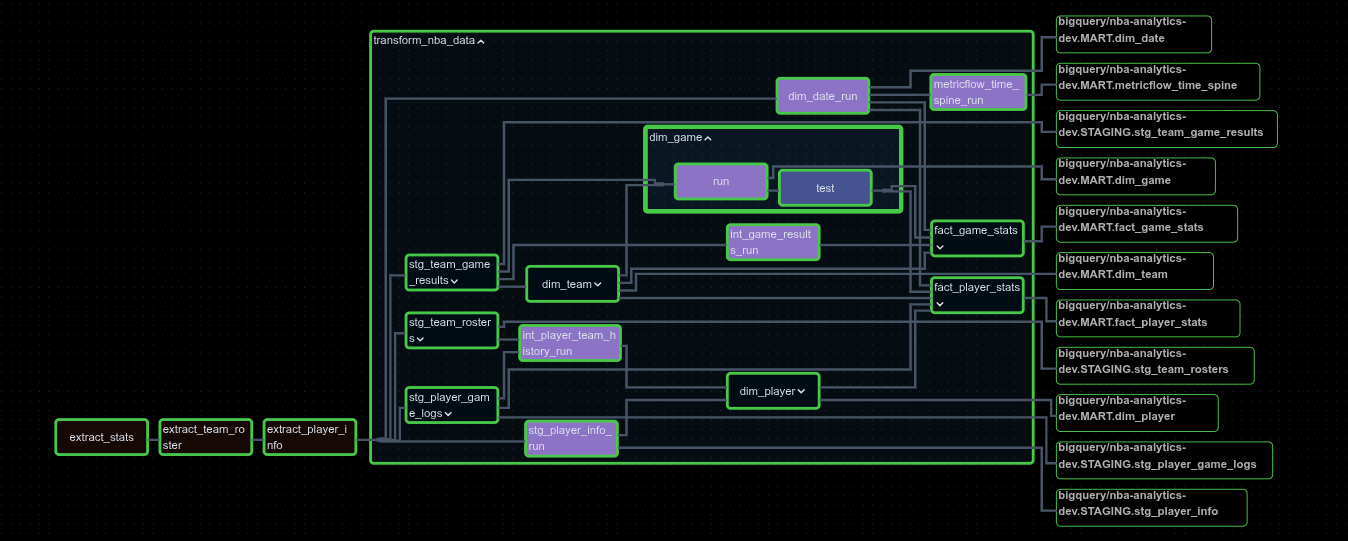
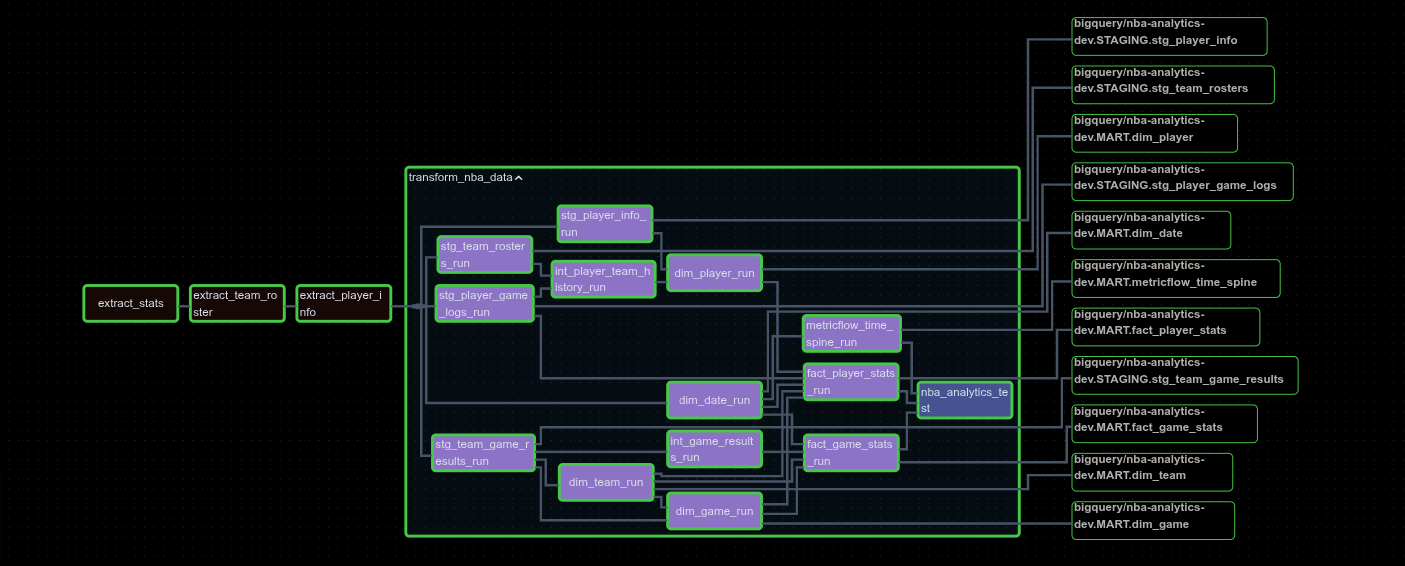
Update readme and airflow graph

Changed region(s): [[0.0312, 0.0296, 0.9347, 0.976]]

diff --git a/README.md b/README.md
@@ -77,7 +77,7 @@ Airflow Graph:
  
 ![Airflow graph view: three extraction tasks followed by the Cosmos-generated dbt task group](docs/airflow_dag_graph.png)
  
-*Airflow graph view of a successful run: the three extraction tasks, then the `transform_nba_data` task group, with dbt models as Cosmos tasks (`run`, plus `test` where tests are defined).*
+*Airflow graph view of a successful run: the three extraction tasks, then the `transform_nba_data` task group, with dbt models as Cosmos tasks and the test tasks bundled up in the end.*
 
 ---
  
